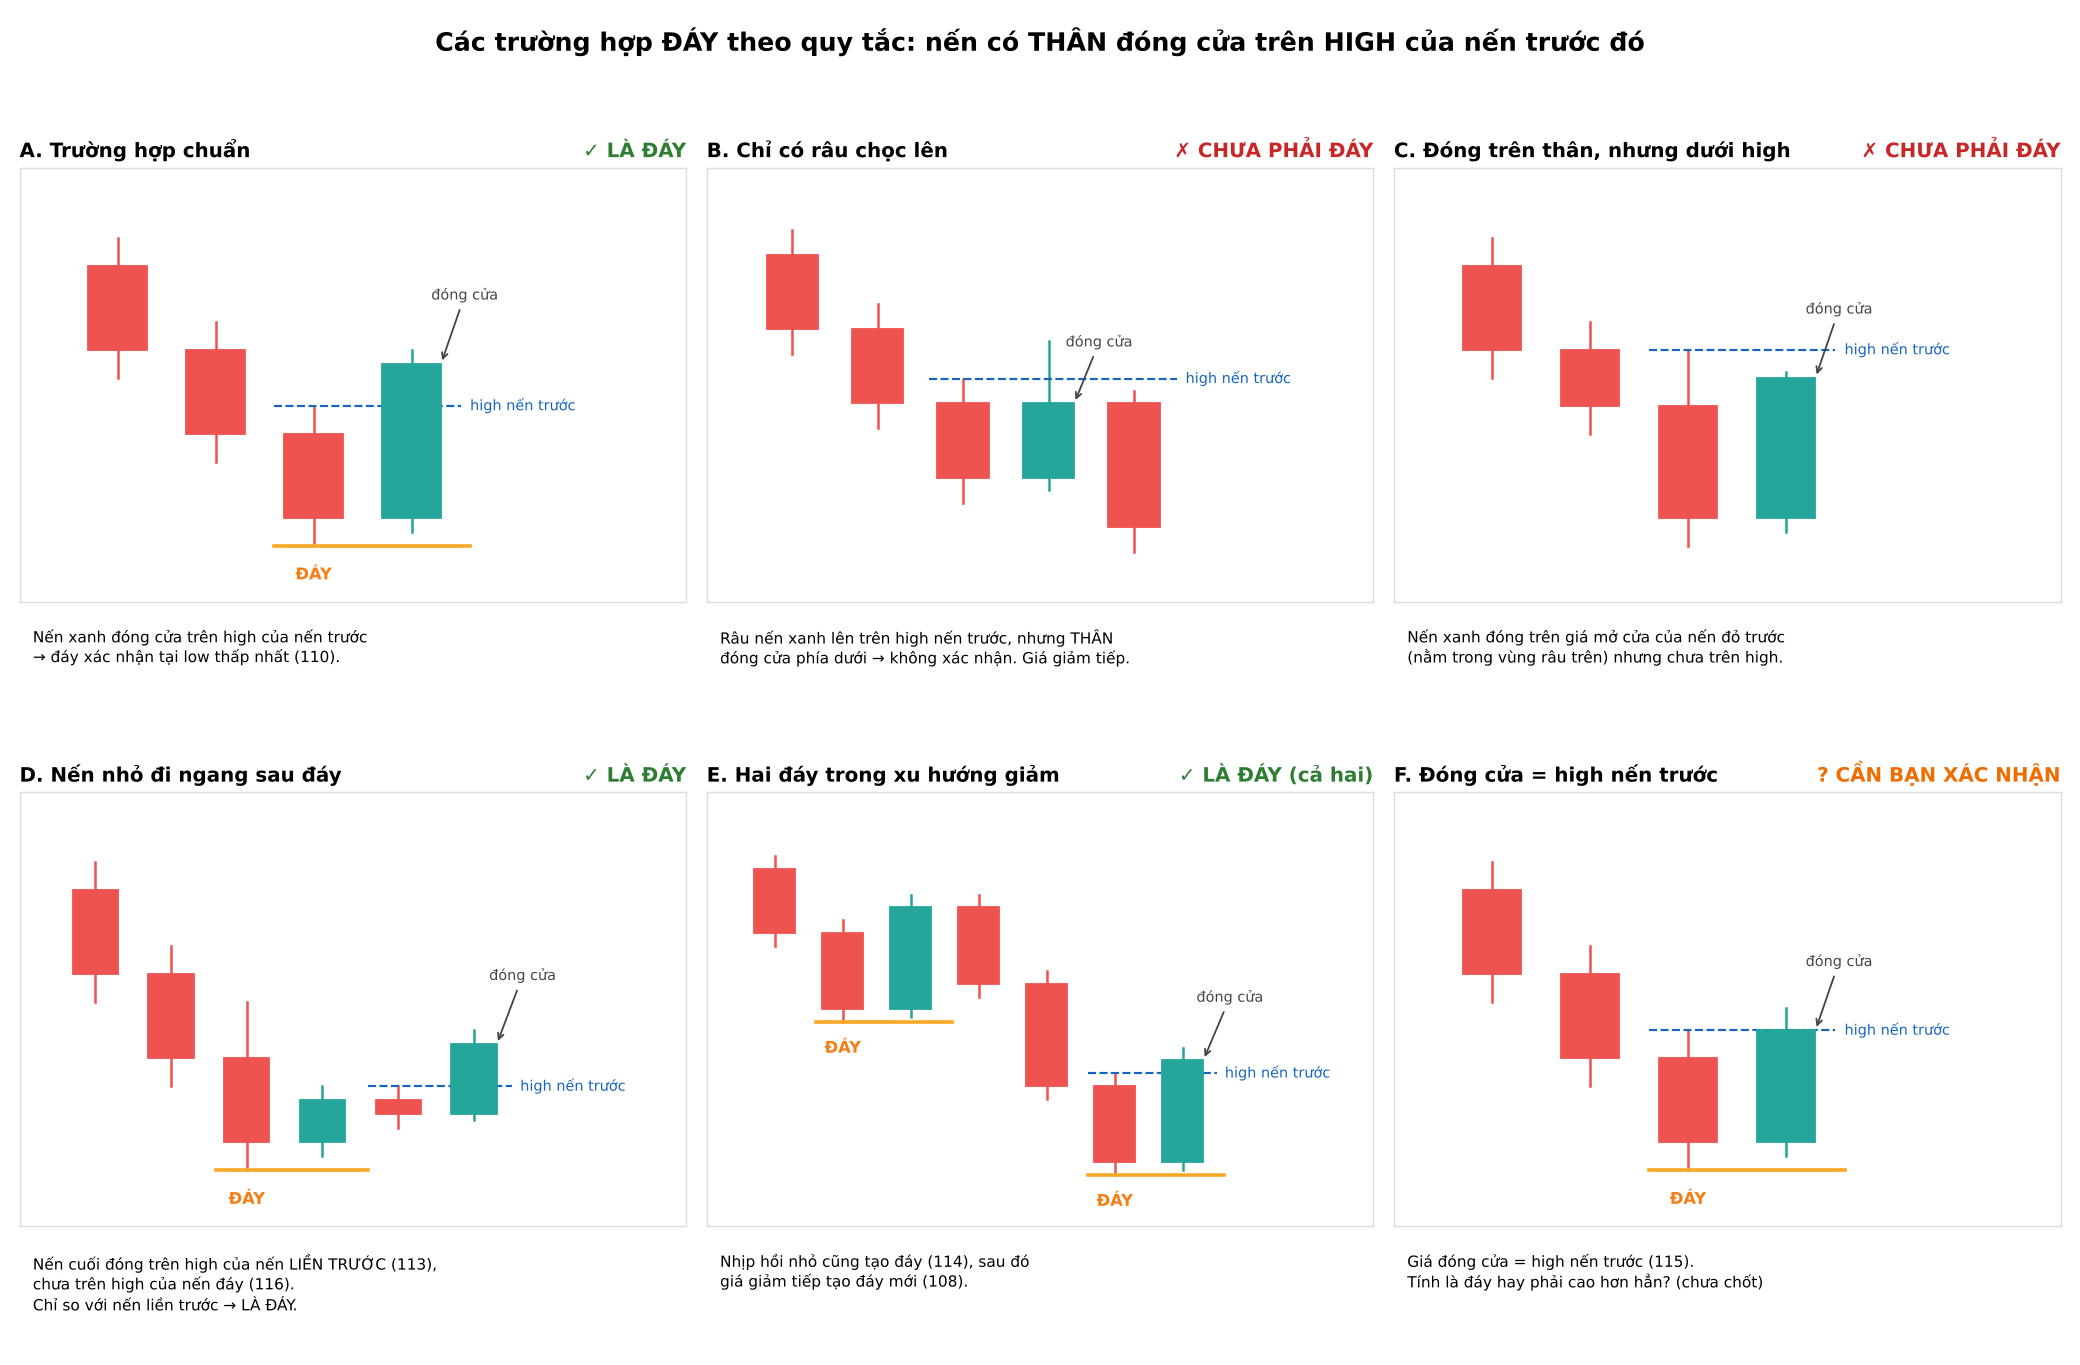
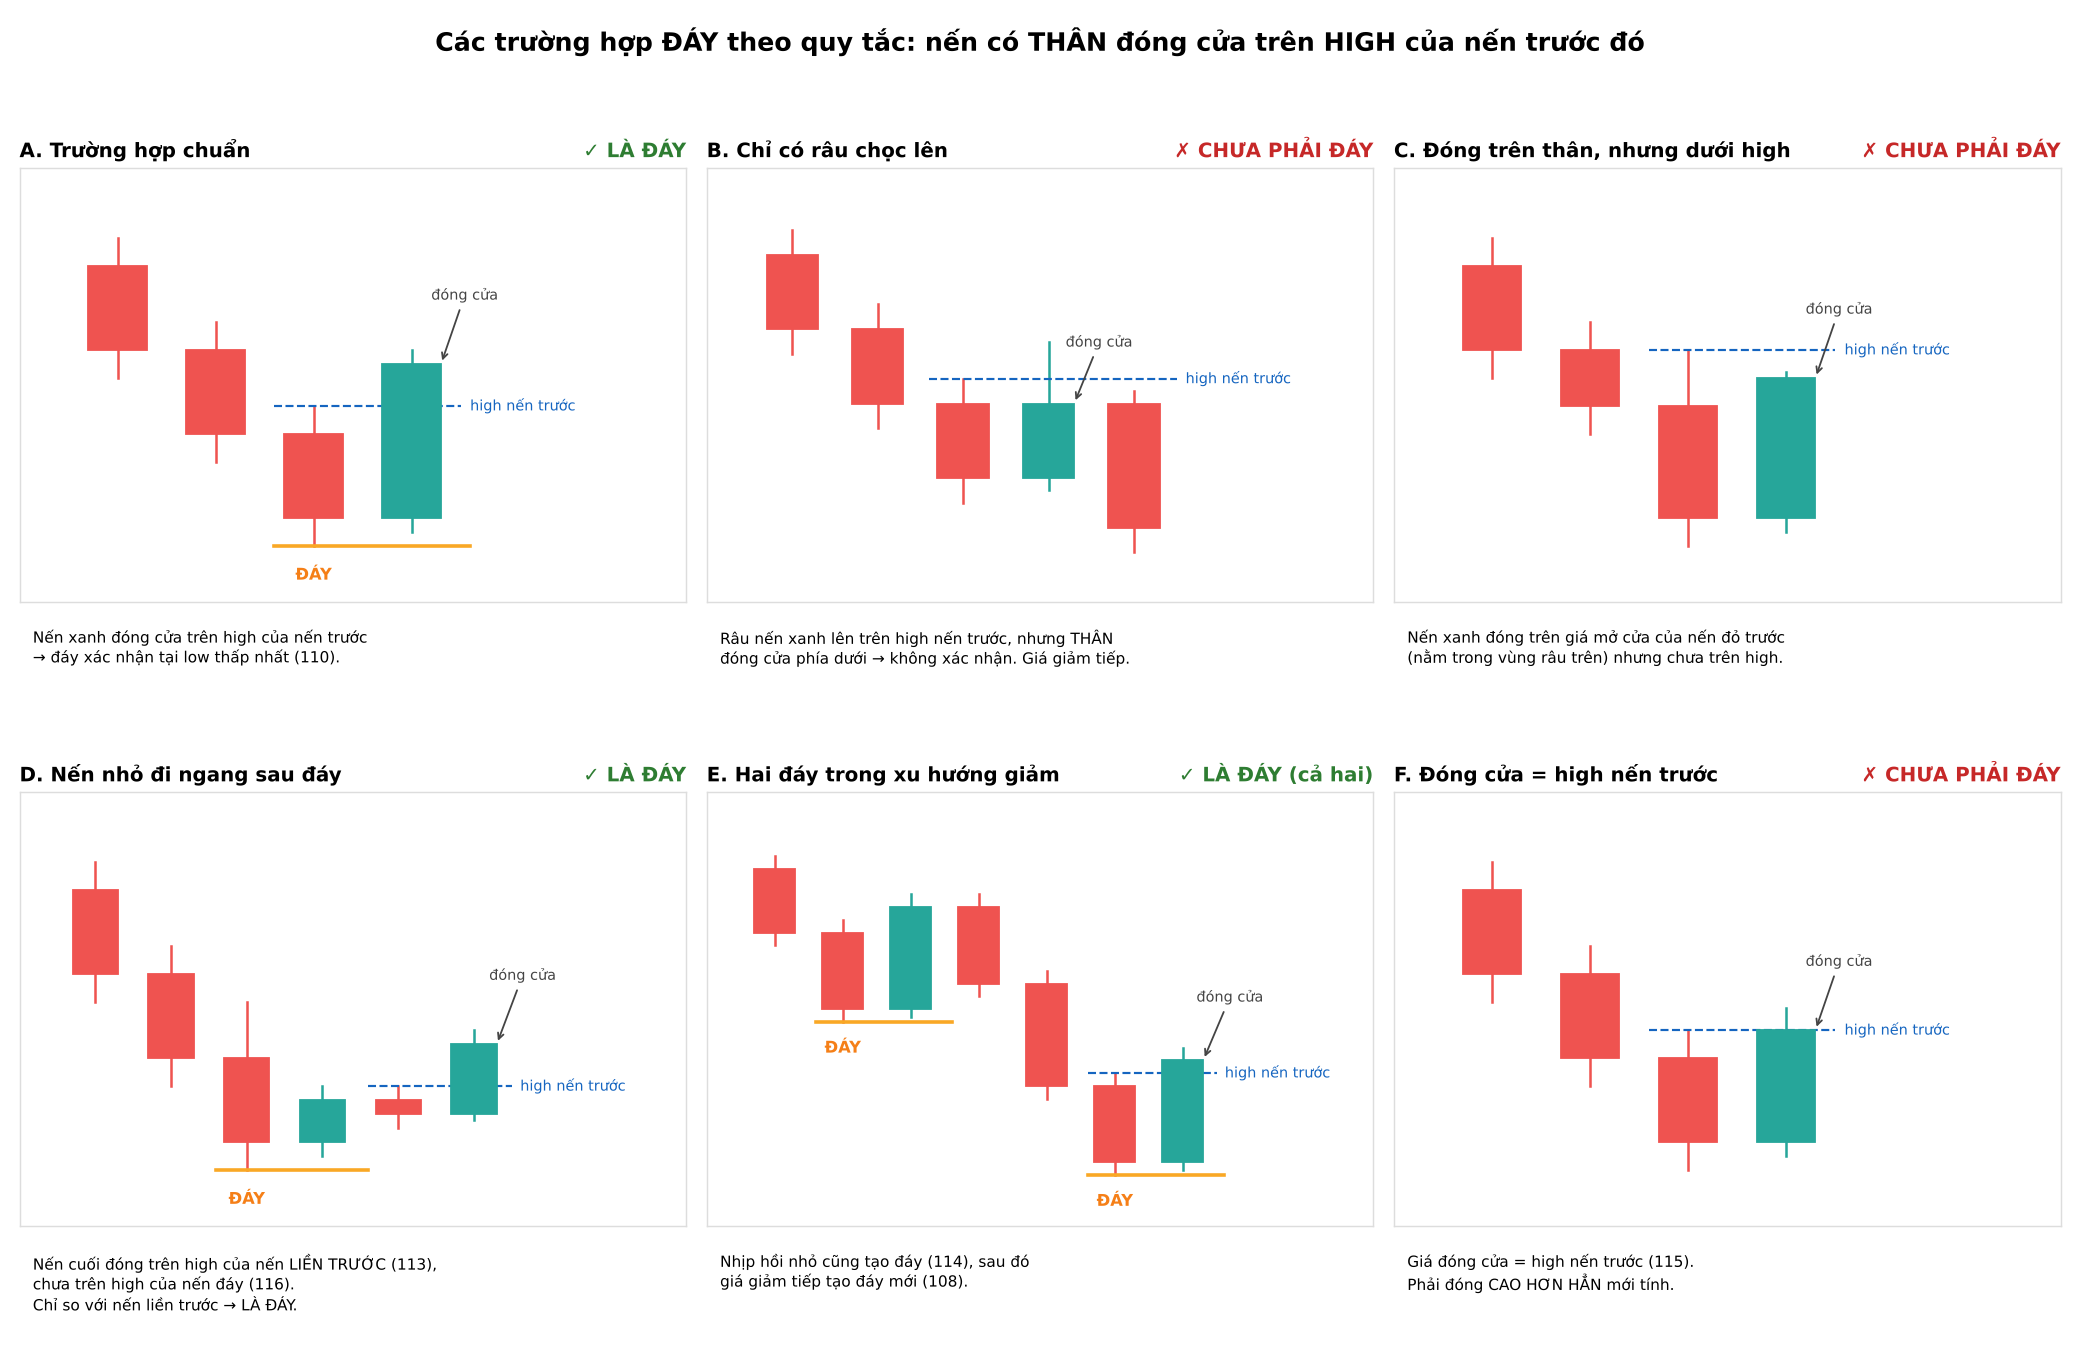
Chốt trường hợp F: đóng cửa bằng low/high không tính là đỉnh/đáy
Claude-Session: https://claude.ai/code/session_01QDQqkxbAsnss6apbWZAP33

diff --git a/knowledge/03-setup.md b/knowledge/03-setup.md
@@ -11,14 +11,15 @@
 - **D. Là đỉnh:** chỉ so với nến LIỀN TRƯỚC, không so với nến tạo đỉnh. Nếu sau đỉnh có nến nhỏ đi ngang, nến đóng cửa dưới low của nến nhỏ đó là đủ để xác nhận.
 - **E. Là đỉnh:** nhịp điều chỉnh nhỏ trong xu hướng tăng cũng tạo đỉnh, nếu thỏa quy tắc.
 
+- **F. Chưa phải đỉnh:** giá đóng cửa ĐÚNG BẰNG low của nến trước thì KHÔNG tính. Phải đóng cửa thấp hơn hẳn.
+
 **Chưa chốt:**
-- F. Giá đóng cửa ĐÚNG BẰNG low của nến trước (với đáy: bằng high) thì có tính không?
 - Phân loại đỉnh lớn và đỉnh nhỏ (có thể sẽ học ở bài cấu trúc thị trường).
 
 ## 2. Đáy (swing low)
 
 **Quy tắc (ngược lại với đỉnh, đã xác nhận):** Đáy hình thành khi có **một cây nến có THÂN đóng cửa trên ĐỈNH (high) của cây nến LIỀN TRƯỚC**. Mức giá của đáy là low thấp nhất của nhịp giảm.
 
-Các trường hợp A–F tương tự đỉnh, chỉ đảo chiều: xem `examples/03-cac-truong-hop-day.png` (chờ người dùng duyệt hình).
+Các trường hợp A–F tương tự đỉnh, chỉ đảo chiều (xem `examples/03-cac-truong-hop-day.png`). Giá đóng cửa ĐÚNG BẰNG high của nến trước thì KHÔNG tính, phải đóng cửa cao hơn hẳn.
 
 Ví dụ chart thật: `examples/01-dinh-day-xauusd-h4.jpg`
